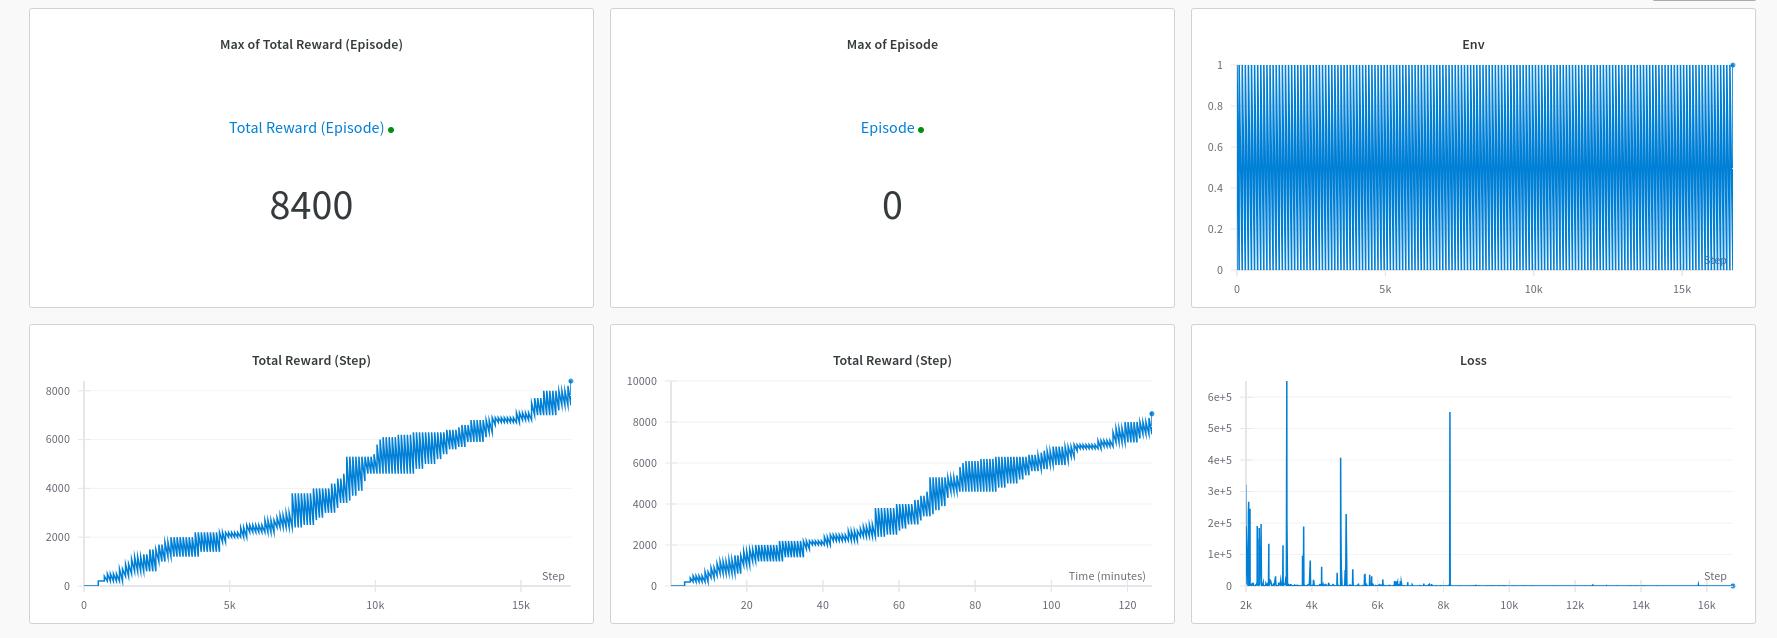
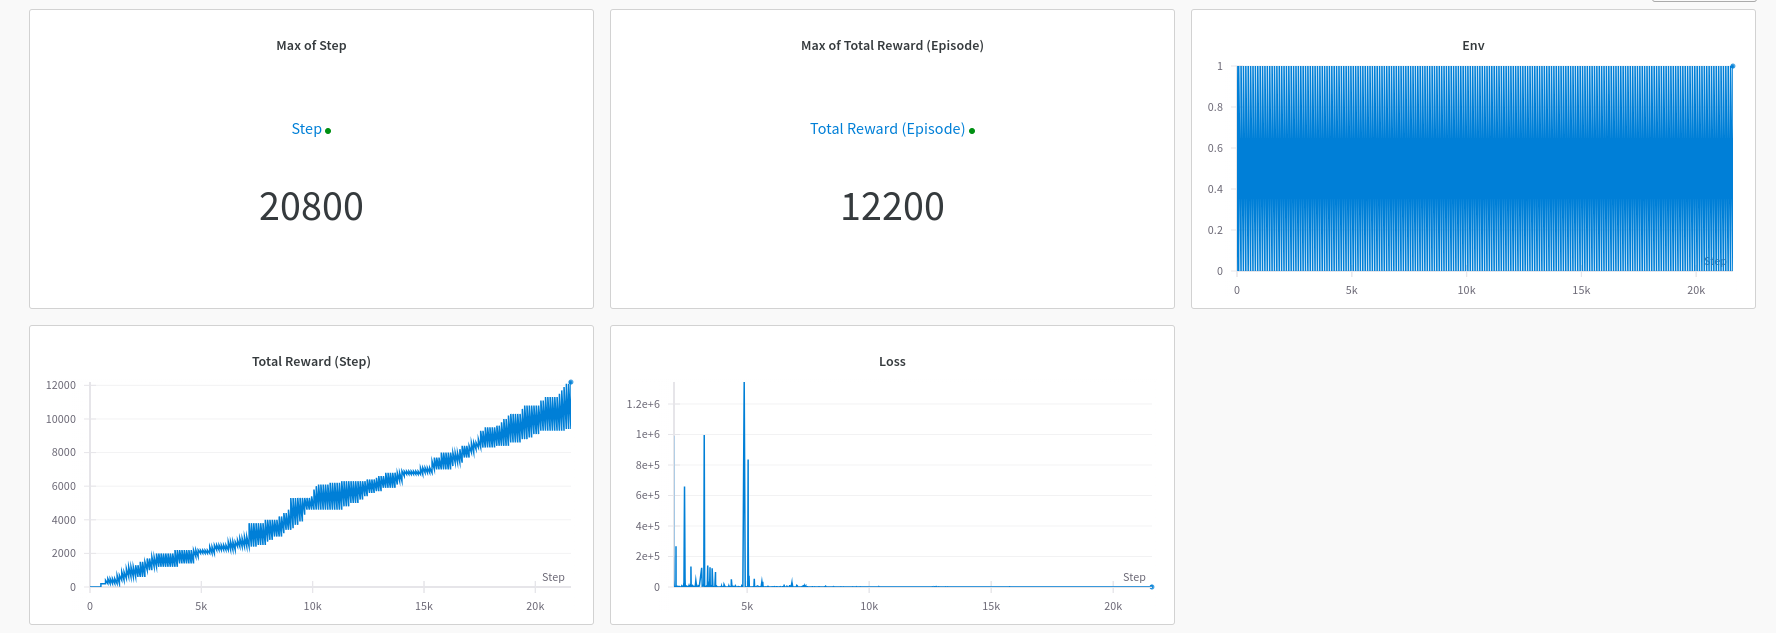
update

diff --git a/config.py b/config.py
@@ -5,4 +5,4 @@ epsilon_decay = 0.995
 gamma = 0.99
 training_episodes = 1
 some_threshold = 5000
-num_envs= 1
+num_envs= 2
